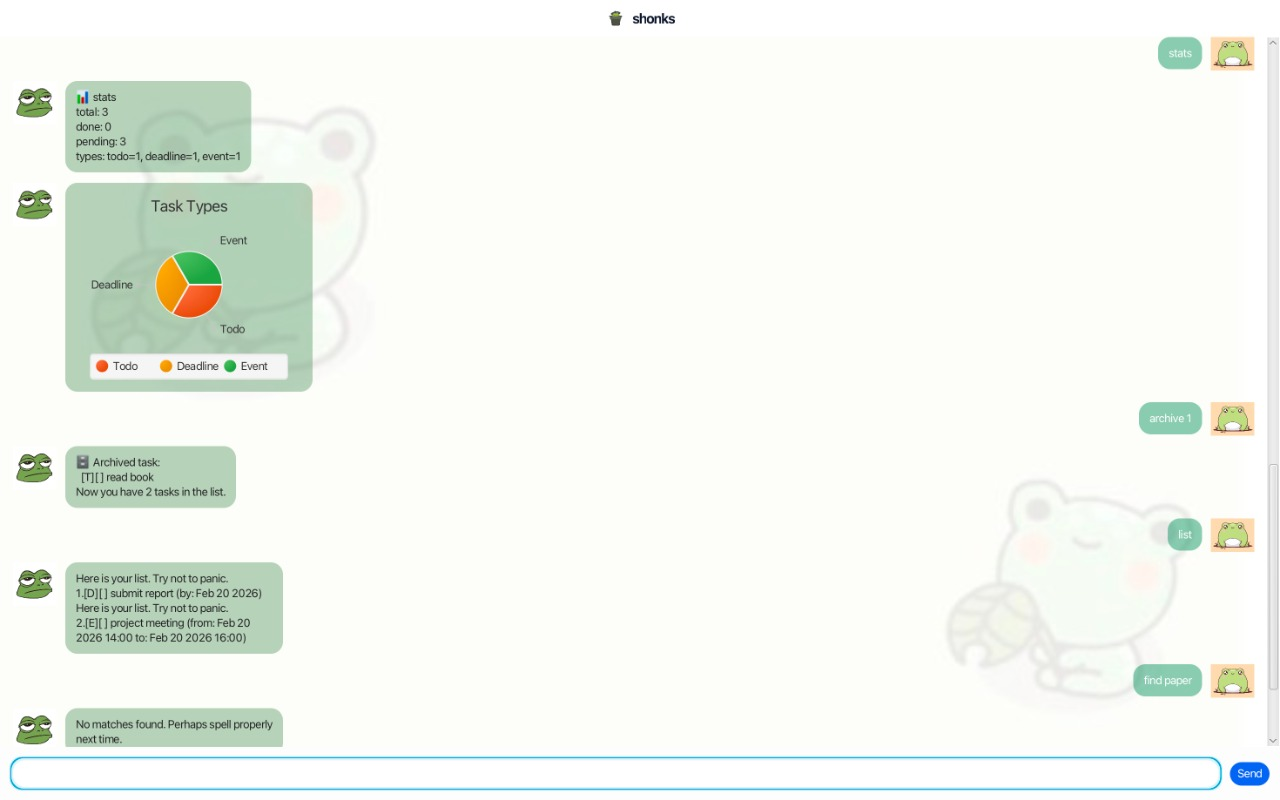
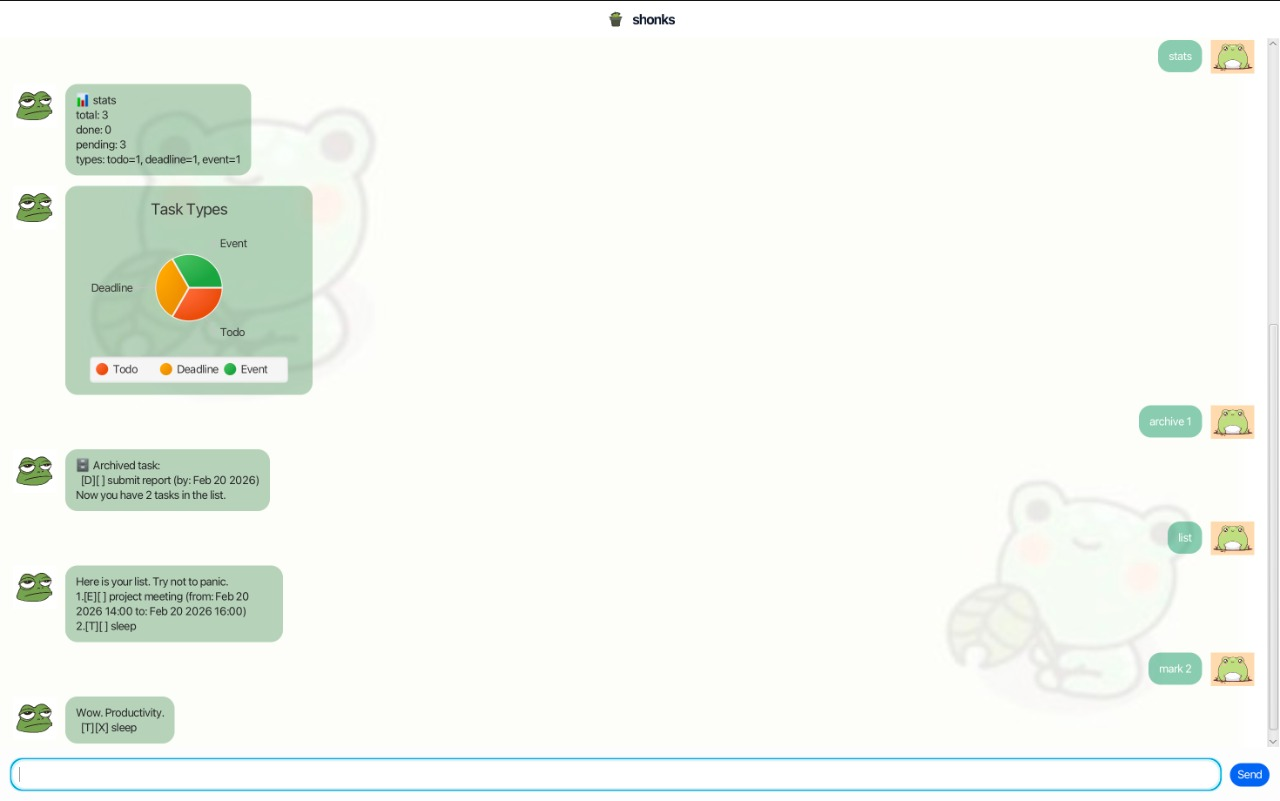
Fix repeated header printing in ListHandler and FindHandler

diff --git a/src/main/java/shonks/command/handlers/FindHandler.java b/src/main/java/shonks/command/handlers/FindHandler.java
@@ -17,7 +17,10 @@ public class FindHandler implements CommandHandler {
         for (int i = 0; i < context.tasks().size(); i++) {
             Task task = context.tasks().get(i);
             if (task.contains(command.keyword)) {
-                context.ui().showFindHeader();
+                if (shown == 0) {
+                    context.ui().showFindHeader();
+                }
+
                 shown++;
                 context.ui().showLine(task.formatForList(shown));
             }

diff --git a/src/main/java/shonks/command/handlers/ListHandler.java b/src/main/java/shonks/command/handlers/ListHandler.java
@@ -16,8 +16,8 @@ public class ListHandler implements CommandHandler {
             context.ui().showEmptyList();
             return;
         }
+        context.ui().showListHeader();
         for (int i = 0; i < context.tasks().size(); i++) {
-            context.ui().showListHeader();
             context.ui().showLine(context.tasks().get(i).formatForList(i + 1));
         }
     }
